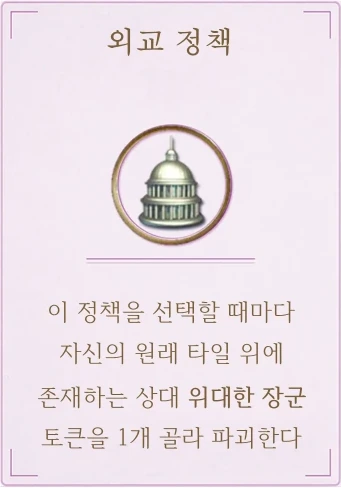
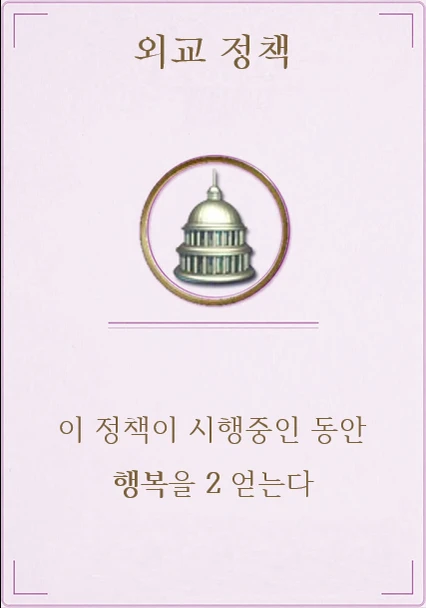
외교 정책: 시행 중 행복 +2로 변경, 합리주의·외교 카드 그림 교체
Claude-Session: https://claude.ai/code/session_01LVieUpBnSHWZvYhZazdeNW

diff --git a/src/ui/panels/PendingPanel.tsx b/src/ui/panels/PendingPanel.tsx
@@ -14,14 +14,6 @@ const ORDER: PolicyId[] = ['tradition', 'aesthetics', 'despotism', 'regime', 'li
 
 /** 연구나 불가사의로 생긴 선택(정책, 두 번째 도시, 독일의 무료 카드)을 먼저 처리한다 */
 export function PendingPanel({ game, player, dispatch }: PanelProps) {
-  // 외교로 파괴할 상대 장군: 있으면 첫 번째를 기본으로 골라 둔다 (고르지 않고 외교를 골라 효과를 날리지 않게)
-  const [dismiss, setDismiss] = useState(() => {
-    for (const c of player.cities) for (const t of c.tiles) if (t.occupiedBy !== undefined && t.occupiedBy !== player.id) return `${c.id}:${t.card.id}`
-    return ''
-  })
-  const enemyTiles = player.cities.flatMap((c) =>
-    c.tiles.filter((t) => t.occupiedBy !== undefined && t.occupiedBy !== player.id).map((t) => ({ cityId: c.id, tile: t })),
-  )
   const workers = totalWorkers(player)
   const cap = player.cities.length ? happiness(player) : 0
   // 전통: 일꾼이 3개 이상이면 자동으로 "일꾼 3개 버리고 문화 2"로 처리한다. 버릴 도시는 도시를 눌러 한 명씩 고른다.
@@ -29,8 +21,7 @@ export function PendingPanel({ game, player, dispatch }: PanelProps) {
   const [alloc, setAlloc] = useState<{ policy: 'tradition' | 'regime'; need: number; counts: Record<number, number> } | null>(null)
   const taken = alloc ? Object.values(alloc.counts).reduce((n, v) => n + v, 0) : 0
   const choose = (id: PolicyId, extra?: { discard?: { cityId: number; count: number }[]; addWorkers?: { cityId: number; count: number }[] }) => {
-    const [cityId, tileId] = dismiss ? dismiss.split(':').map(Number) : []
-    dispatch({ type: 'choosePolicy', policy: id, ...extra, dismiss: id === 'diplomacy' && dismiss ? { cityId, tileId } : undefined })
+    dispatch({ type: 'choosePolicy', policy: id, ...extra })
   }
   const regimeGain = Math.min(REGIME_WORKERS, Math.max(0, cap - workers))
   const pick = (id: PolicyId) => {
@@ -81,19 +72,6 @@ export function PendingPanel({ game, player, dispatch }: PanelProps) {
             정책은 하나만 시행합니다. 새로 고르면 기존 정책은 끝나고, 지금 정책을 다시 골라도 "고를 때마다" 효과가 다시 발동합니다.
             일꾼 {workers}개 · 행복 한도 {cap}.
           </p>
-          {enemyTiles.length > 0 && (
-            <label className="muted">
-              외교로 파괴할 상대 장군{' '}
-              <select value={dismiss} onChange={(e) => setDismiss(e.target.value)}>
-                <option value="">(고르지 않음)</option>
-                {enemyTiles.map((e) => (
-                  <option key={e.tile.card.id} value={`${e.cityId}:${e.tile.card.id}`}>
-                    {civById(game.players[e.tile.occupiedBy!].civId).name} · {e.tile.card.terrains.join('·')}
-                  </option>
-                ))}
-              </select>
-            </label>
-          )}
           <div className="cardgrid">
             {ORDER.map((id) => (
               <div key={id} className="policy-pick">

diff --git a/src/ui/ruleWords.ts b/src/ui/ruleWords.ts
@@ -76,7 +76,7 @@ export const RULE_WORDS: RuleWord[] = [
     title: '행복',
     rows: [
       ['뜻', ['일꾼 수는 절대 행복을 넘을 수 없습니다. 넘치면 넘친 만큼 원하는 일꾼을 골라 버립니다.', '식량이 아무리 많아도 행복이 모자라면 인구는 늘지 않습니다.']],
-      ['얻는 법', ['시작 행복(문명 카드), 사치자원 종류마다 +1 (해당 기술 필요, 같은 자원 여러 장이어도 +1), 마우솔레움 +1, 치첸이사 +2, 에펠탑 +1, 다이너마이트 연구 +2, 올드 페이스풀 +1.'], ['마우솔레움', '치첸이사', '에펠탑', '다이너마이트']],
+      ['얻는 법', ['시작 행복(문명 카드), 사치자원 종류마다 +1 (해당 기술 필요, 같은 자원 여러 장이어도 +1), 마우솔레움 +1, 치첸이사 +2, 에펠탑 +1, 다이너마이트 연구 +2, 올드 페이스풀 +1, 외교 정책 시행 중 +2.'], ['마우솔레움', '치첸이사', '에펠탑', '다이너마이트', '외교']],
     ],
   },
   {
@@ -121,7 +121,7 @@ export const RULE_WORDS: RuleWord[] = [
   {
     id: 'occupy',
     title: '점령',
-    rows: [['뜻', ['선전포고 전투에서 이기면 장군을 목표 타일 위에 올려 점령합니다. 그 타일에는 상대가 일꾼을 올릴 수 없습니다.', '몽골은 내 장군이 올라간 상대 타일에 일꾼을 올려 산출할 수 있습니다.'], ['위대한 장군', '외교', '만리장성']]],
+    rows: [['뜻', ['선전포고 전투에서 이기면 장군을 목표 타일 위에 올려 점령합니다. 그 타일에는 상대가 일꾼을 올릴 수 없습니다.', '몽골은 내 장군이 올라간 상대 타일에 일꾼을 올려 산출할 수 있습니다.'], ['위대한 장군', '만리장성']]],
   },
   {
     id: 'city_attack',

diff --git a/src/engine/policies.ts b/src/engine/policies.ts
@@ -14,7 +14,6 @@ export function choosePolicy(
   p: Player,
   policy: PolicyId,
   discard: { cityId: number; count: number }[] = [],
-  dismiss?: { cityId: number; tileId: number },
   addWorkers?: { cityId: number; count: number }[],
 ): void {
   if (p.pendingPolicies <= 0) throw new RuleError('고를 수 있는 정책 선택권이 없습니다')
@@ -68,19 +67,7 @@ export function choosePolicy(
       if (gain > 0) say(s, `${name} 체제: 일꾼 ${gain}개 추가`)
       break
     }
-    case 'diplomacy': {
-      // 내 원래 타일 위의 상대 위대한 장군 토큰 1개를 골라 파괴한다 (그 문명은 장군을 돌려받지 못함)
-      if (dismiss) {
-        const city = p.cities.find((c) => c.id === dismiss.cityId)
-        const tile = city?.tiles.find((t) => t.card.id === dismiss.tileId)
-        if (!tile || tile.occupiedBy === undefined || tile.occupiedBy === p.id) {
-          throw new RuleError('상대 장군이 올라간 내 타일을 골라야 합니다')
-        }
-        tile.occupiedBy = undefined
-        say(s, `${name} 외교: 상대 장군 토큰 파괴`)
-      }
-      break
-    }
+    case 'diplomacy': // 시행 중 행복 +2 (yields.happiness)
     case 'liberty':
     case 'rationalism':
     case 'equality':

diff --git a/src/engine/__tests__/stage2.test.ts b/src/engine/__tests__/stage2.test.ts
@@ -47,6 +47,15 @@ describe('정책', () => {
     expect(culture(me(s))).toBe(6)
   })
 
+  it('외교: 시행 중에는 행복 +2, 다른 정책으로 바꾸면 사라진다', () => {
+    let s = mod(toProduce(solo()), (c) => (c.players[0].pendingPolicies = 2))
+    const base = happiness(me(s))
+    s = apply(s, { type: 'choosePolicy', policy: 'diplomacy' })
+    expect(happiness(me(s))).toBe(base + 2)
+    s = apply(s, { type: 'choosePolicy', policy: 'aesthetics' })
+    expect(happiness(me(s))).toBe(base)
+  })
+
   it('전제정치: 위대한 장군 +1', () => {
     let s = mod(toProduce(solo()), (c) => (c.players[0].pendingPolicies = 1))
     s = apply(s, { type: 'choosePolicy', policy: 'despotism' })

diff --git a/src/engine/types.ts b/src/engine/types.ts
@@ -268,7 +268,7 @@ export type Action =
   | { type: 'discardCard'; uid: number }
   | { type: 'skipResearch' }
   | { type: 'endProduction' }
-  | { type: 'choosePolicy'; policy: PolicyId; discard?: { cityId: number; count: number }[]; dismiss?: { cityId: number; tileId: number }; addWorkers?: { cityId: number; count: number }[] }
+  | { type: 'choosePolicy'; policy: PolicyId; discard?: { cityId: number; count: number }[]; addWorkers?: { cityId: number; count: number }[] }
   | { type: 'policyOffer'; accept: boolean }
   | { type: 'buildSecondCity'; cityTileId: number; sideTiles: Partial<Record<Side, number>> }
   | { type: 'invest'; cityId: number; wonderId: string; hammers: number }

diff --git a/src/engine/yields.ts b/src/engine/yields.ts
@@ -134,8 +134,13 @@ export function happiness(player: Player): number {
     for (const e of wonderCardById(id).effects) if (e.kind === 'happiness') bonus += e.amount * mult
   }
   for (const id of owned) for (const e of techById(id).effects) if (e.kind === 'happiness') bonus += e.amount
+  // 외교: 시행 중 행복 +2
+  if (player.policy === 'diplomacy') bonus += DIPLOMACY_HAPPINESS
   return civ.happiness + luxuries.size + bonus
 }
+
+/** 외교 정책을 시행하는 동안 얻는 행복 */
+export const DIPLOMACY_HAPPINESS = 2
 
 /** 합리주의: 매 차례 과학 4 (한국은 6) */
 export const rationalismScience = (civId: string): number => (civId === 'korea' ? 6 : 4)

diff --git a/src/engine/game.ts b/src/engine/game.ts
@@ -255,7 +255,7 @@ export function apply(prev: GameState, action: Action): GameState {
       return s
     case 'choosePolicy':
       expectPhase(s, 'research', 'produce')
-      choosePolicy(s, p, action.policy, action.discard, action.dismiss, action.addWorkers)
+      choosePolicy(s, p, action.policy, action.discard, action.addWorkers)
       return s
     case 'policyOffer':
       expectPhase(s, 'research', 'produce')

diff --git a/docs/ui-review.md b/docs/ui-review.md
@@ -265,3 +265,4 @@
 - 검색 도감 창과 카드 크게 보기 창(문명·정책·기술·군사·불가사의 카드, 몽골 도시 고르기)을 문서 맨 끝에 그린다 (Overlay). 오른쪽 고정 칸 안에 갇혀 위쪽 단계 막대에 가려지던 문제를 고쳤다.
 - 점령 중인 장군 불러들이기: "타일 #49" 대신 타일 그림(장군 토큰 포함)과 이름을 보여 준다. 똑같이 생긴 타일이 둘 이상이면 왼쪽 위부터 "평지 1, 평지 2, 평지 3" (tileName). 선전포고 목록의 타일 이름도 같은 규칙.
 - 오른쪽 위 문명 기호: 지금 보고 있는 문명(차례 순서에서 고른 시점, 아니면 내 문명)의 기호. 누르면 그 문명이 지금 가진 것만 모아 보여 준다: 군사 카드(종류별 장수, 글자)와 지은 불가사의(작은 그림 카드). 내 내정 화면으로 돌아가기는 오른쪽 아래 버튼.
+- 정책 카드 그림 교체: 합리주의(4 진하게), 외교(새 효과). 외교 효과 변경: 시행 중 행복 +2 (상대 장군 파괴는 없앰). 규칙서·도감(행복)·테스트 반영.

diff --git a/docs/rules.md b/docs/rules.md
@@ -462,8 +462,7 @@
 
   평등             시행 중에는 매 턴 자신의 문화 3당 관광 1을 얻습니다
 
-  외교             고를 때마다 내 원래 타일 위의 상대 위대한 장군 토큰
-                   1개를 골라 파괴합니다
+  외교             시행 중에는 행복 2를 얻습니다
   -----------------------------------------------------------------------
 
 9. 정찰과 나침반
